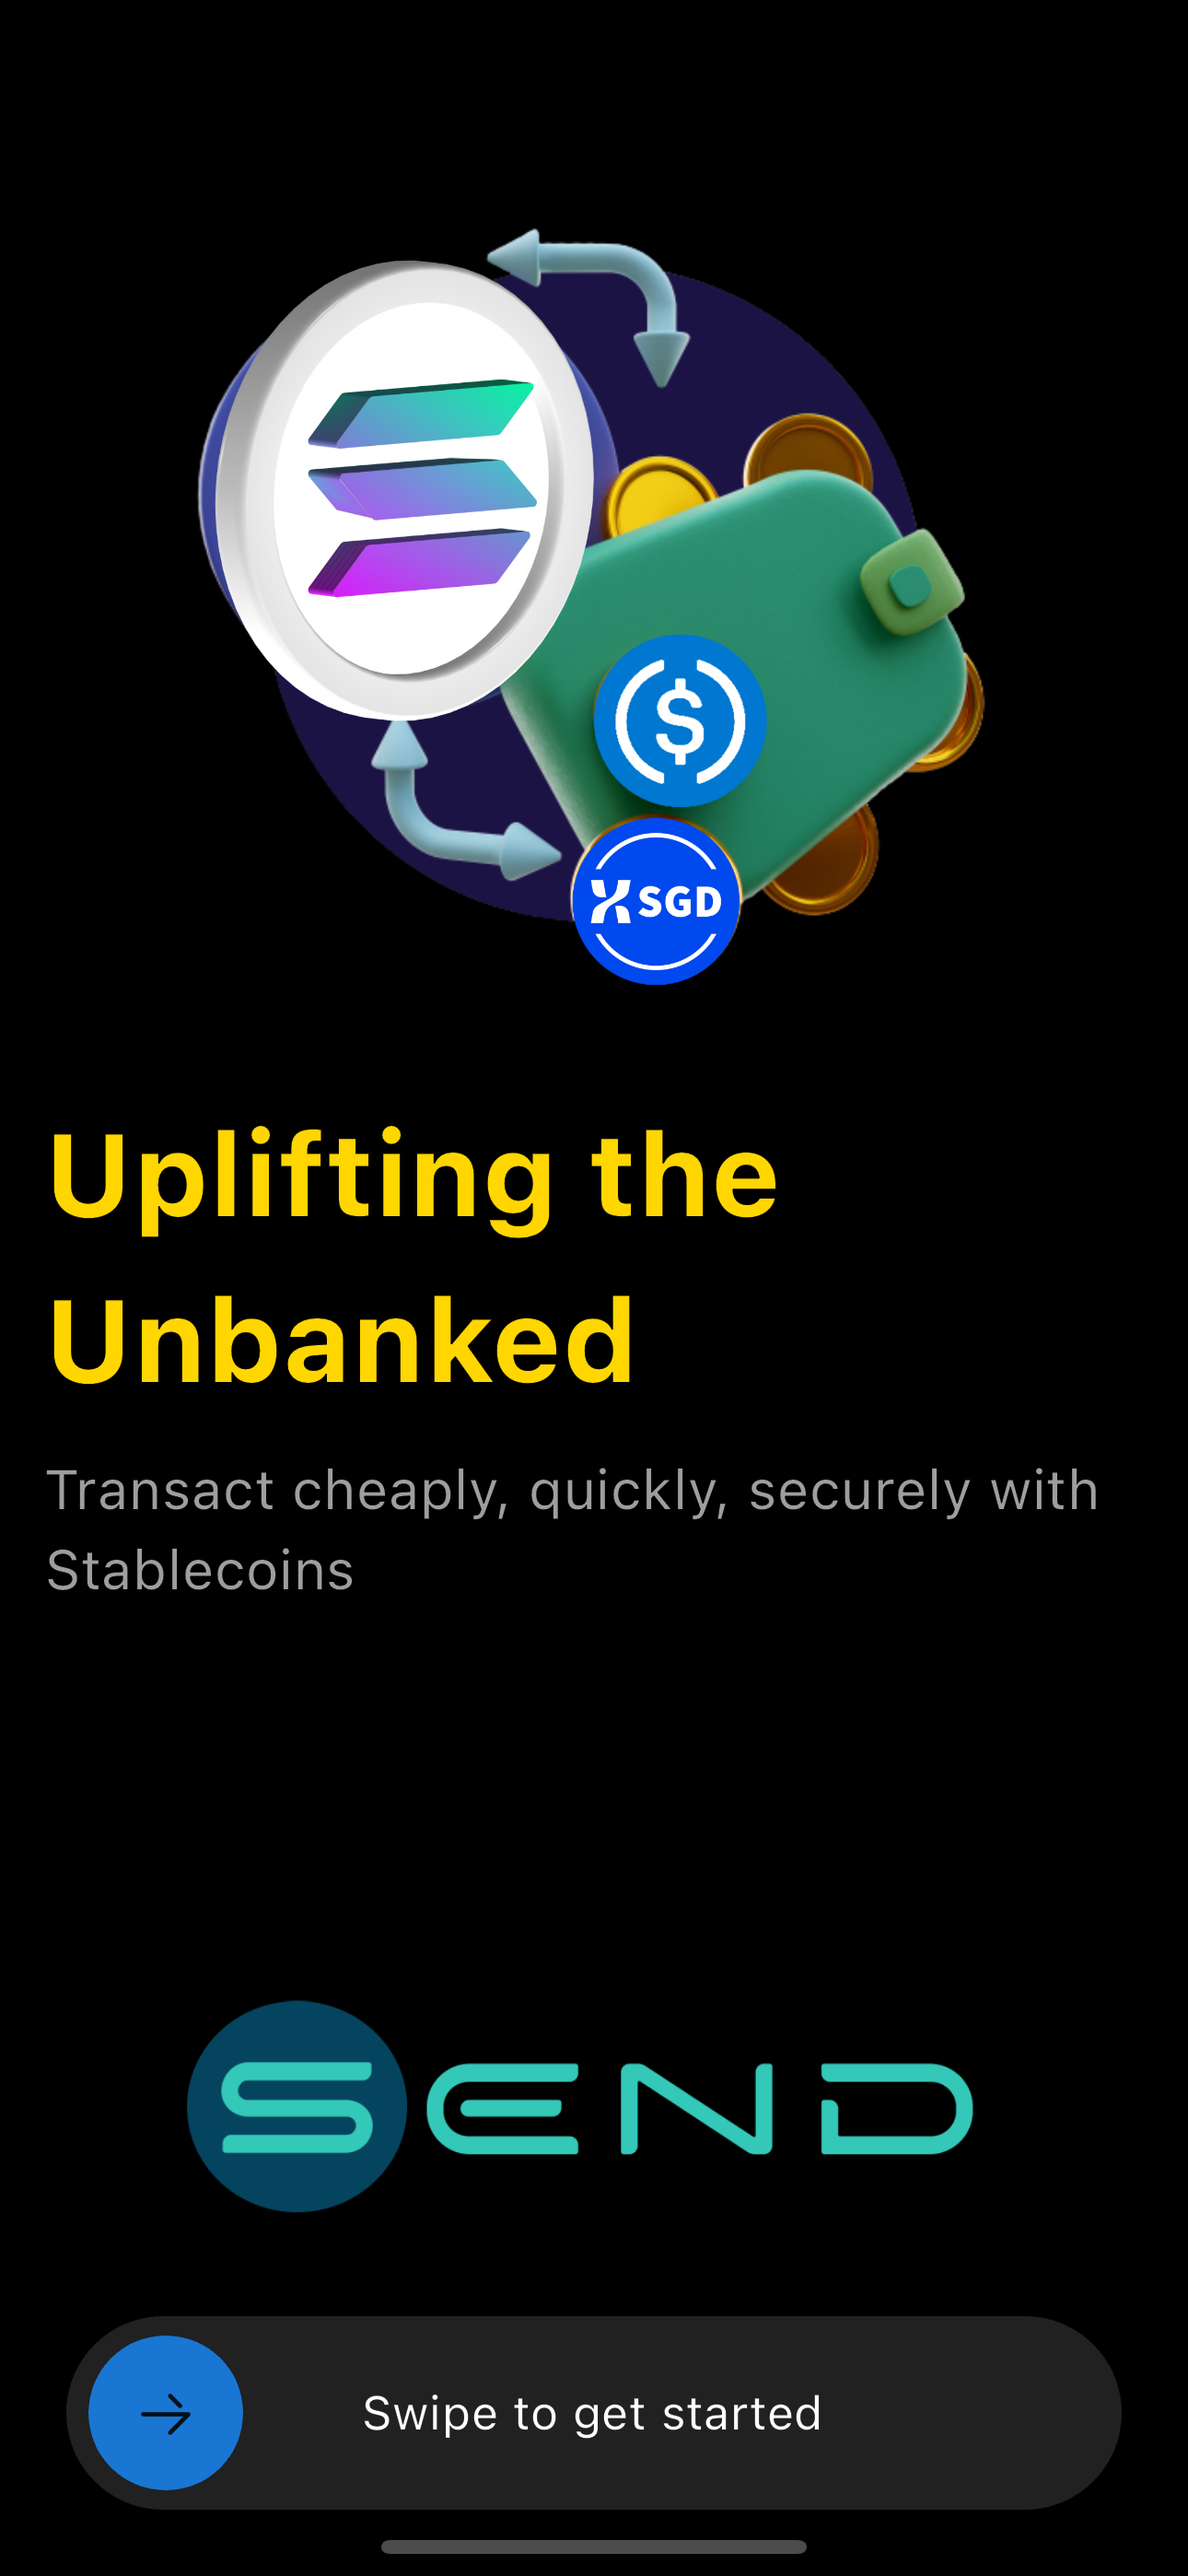
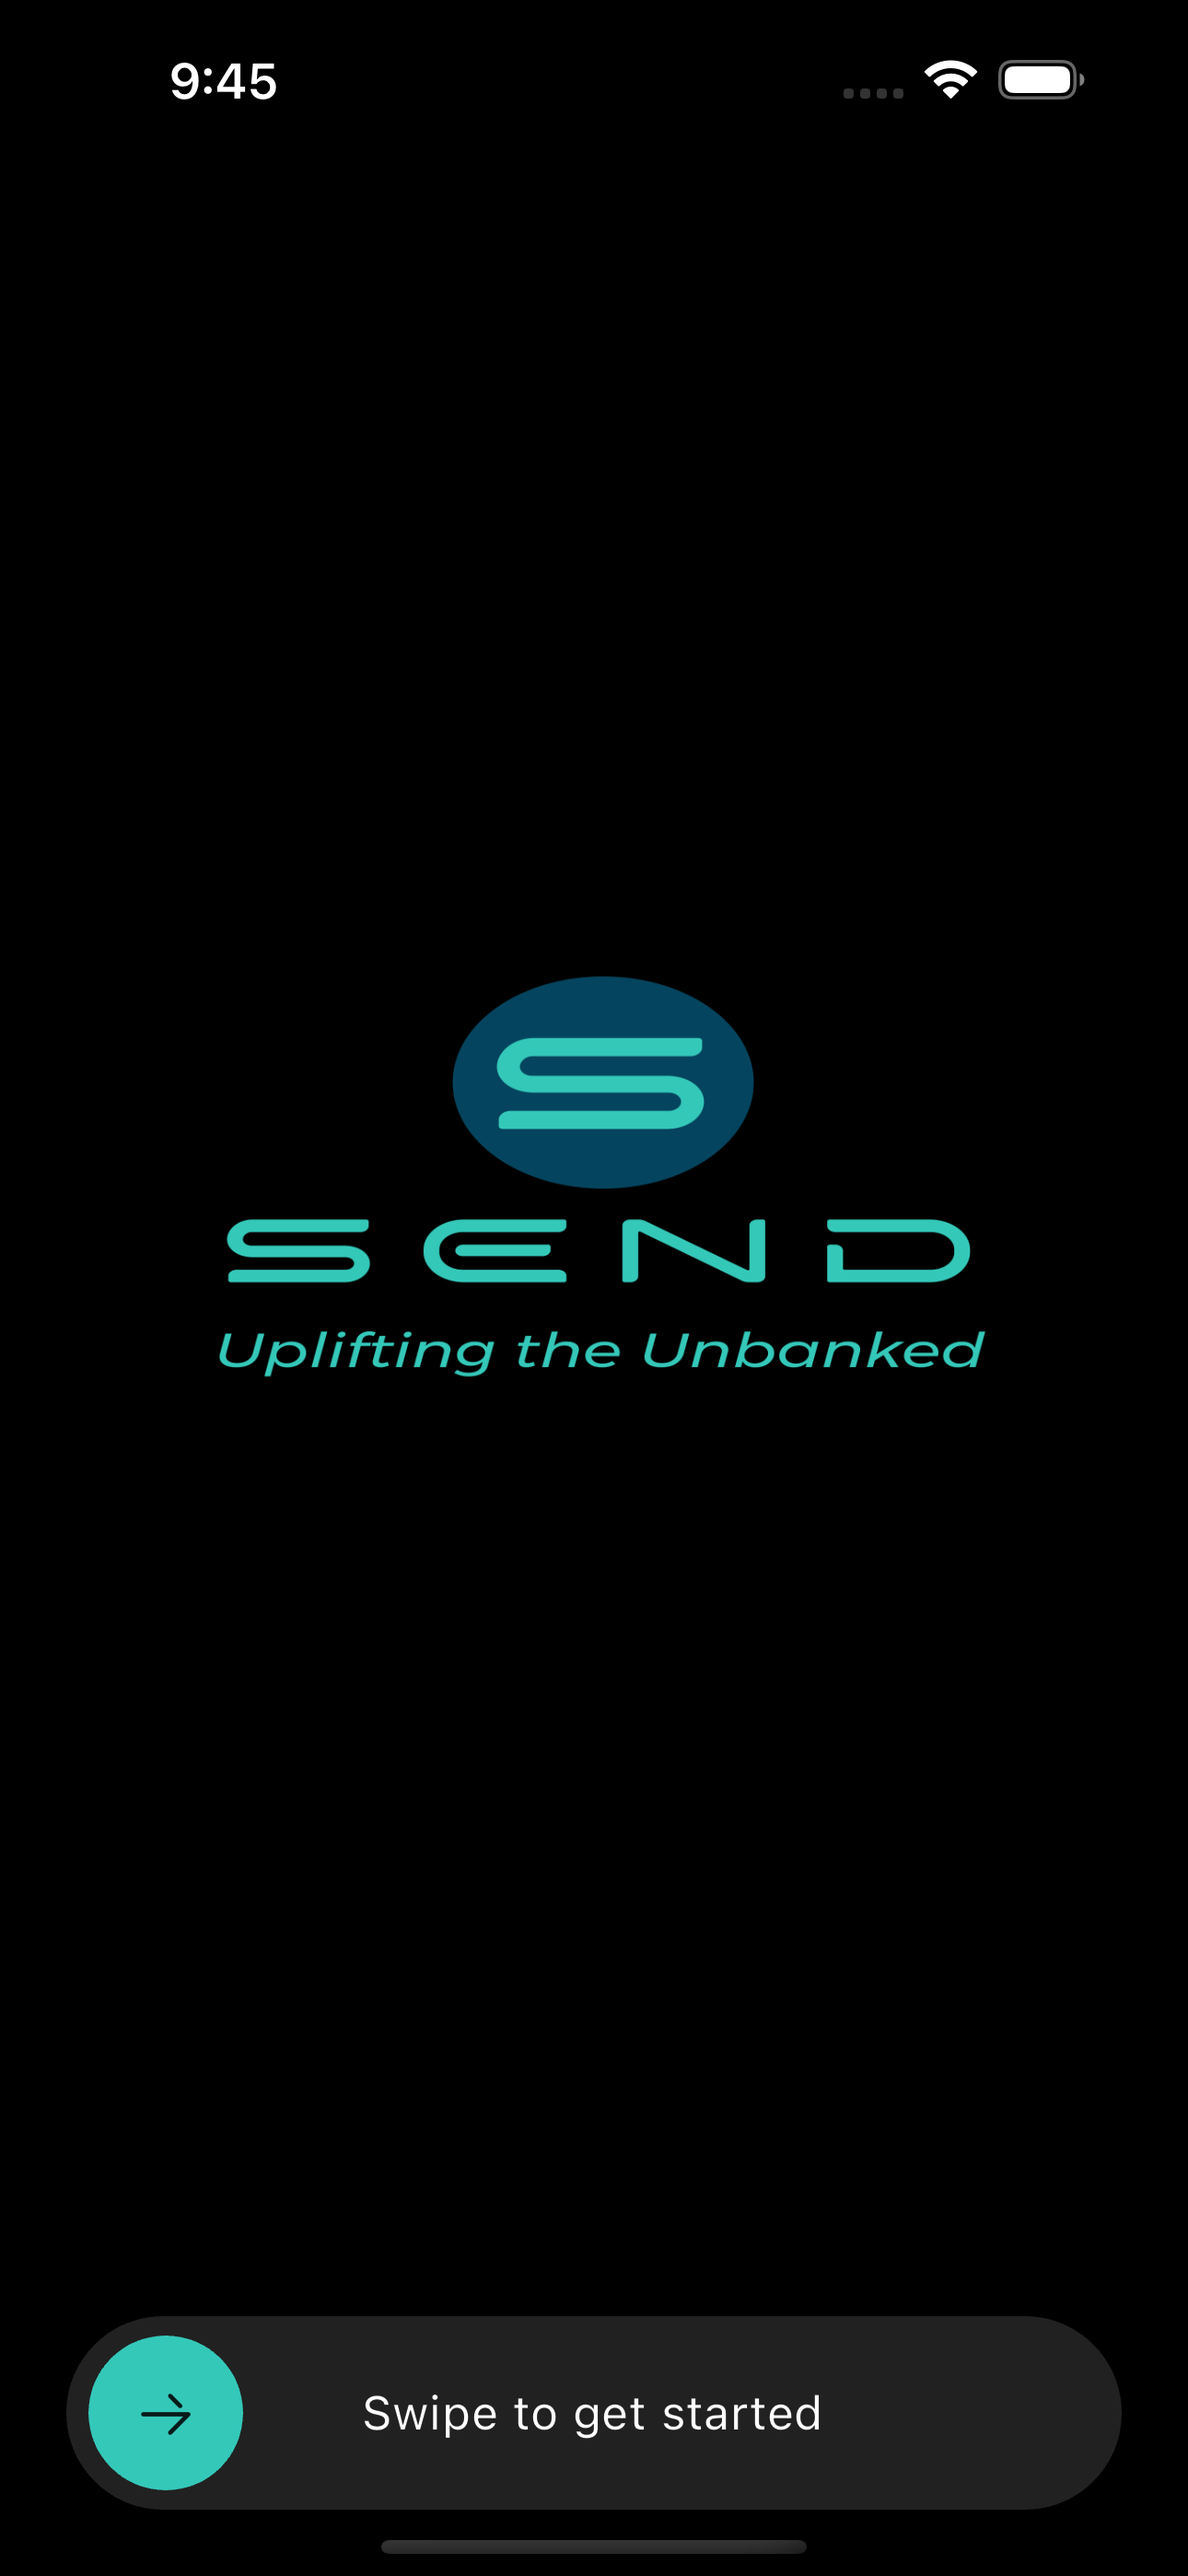
Refactor

diff --git a/lib/screen/intro_page.dart b/lib/screen/intro_page.dart
@@ -19,41 +19,25 @@ class IntroPage extends StatelessWidget {
       body: Stack(
         children: [
           Padding(
-            padding: const EdgeInsets.only(left : 16.0, top: 64, right: 16),
-            child: Column(
-              children: [
-                FadeInDown(
-                  child: Container(
-                    width: MediaQuery.of(context).size.width * 0.7,
-                    height: MediaQuery.of(context).size.width * 0.7,
-                    decoration: BoxDecoration(
-                      borderRadius: BorderRadius.circular(10),
-                      image: const DecorationImage(
-                        image: AssetImage('assets/images/NFT_4.png'),
-                        fit: BoxFit.cover,
+            padding: const EdgeInsets.only(left : 16.0, top: 140, right: 16),
+            child: Center(
+              child: Column(
+                children: [
+                  FadeInDown(
+                    child: Container(
+                      width: MediaQuery.of(context).size.width*1.5,
+                      height: MediaQuery.of(context).size.width*1.5,
+                      decoration: BoxDecoration(
+                        borderRadius: BorderRadius.circular(10),
+                        image: const DecorationImage(
+                          image: AssetImage('assets/images/splash.png'),
+                          fit: BoxFit.cover,
+                        ),
                       ),
                     ),
                   ),
-                ),
-                const SizedBox(height: 30,),
-                FadeInLeft(child: Text('Uplifting the Unbanked', style: TextStyle(color:Colors.yellowAccent[700], fontSize: 42, fontWeight: FontWeight.bold, fontFamily: ''),)),
-                const SizedBox(height: 10,),
-                FadeInLeft(child: const Text('Transact cheaply, quickly, securely with Stablecoins', style: TextStyle(color: Colors.grey, fontSize: 20),)),
-                const SizedBox(height: 30,),
-                FadeInUp(
-                  child: Container(
-                    width: MediaQuery.of(context).size.width * 0.7,
-                    height: MediaQuery.of(context).size.width * 0.7,
-                    decoration: BoxDecoration(
-                      borderRadius: BorderRadius.circular(10),
-                      image: const DecorationImage(
-                        image: AssetImage('assets/images/logo_send.png'),
-                        fit: BoxFit.fitWidth,
-                      ),
-                    ),
-                  ),
-                ),
-              ]
+                ]
+              ),
             ),
           ),
           Positioned(
@@ -67,7 +51,7 @@ class IntroPage extends StatelessWidget {
                 child: SlideAction(
                   sliderRotate: false,
                   outerColor: Colors.grey[900],
-                  innerColor: Colors.blue[700],
+                  innerColor: Color(0xFF34C8B9),
                   key: key,
                   sliderButtonIcon: const Icon(IconlyBroken.arrow_right),
                   onSubmit: () {

diff --git a/README.md b/README.md
@@ -1,5 +1,5 @@
 # Send 
-
+Introducing our innovative mobile app, built with Flutter and powered by the Solana blockchain, offering a seamless solution for secure, affordable, and swift cross-border payments. Experience the future of remittances as you effortlessly send money worldwide using stablecoins, ensuring your transactions are not only fast but also highly secure. Say goodbye to expensive fees and delays – embrace the future of global payments with our Flutter-powered Solana blockchain payment app.
 
 ## UI Screens 
 
